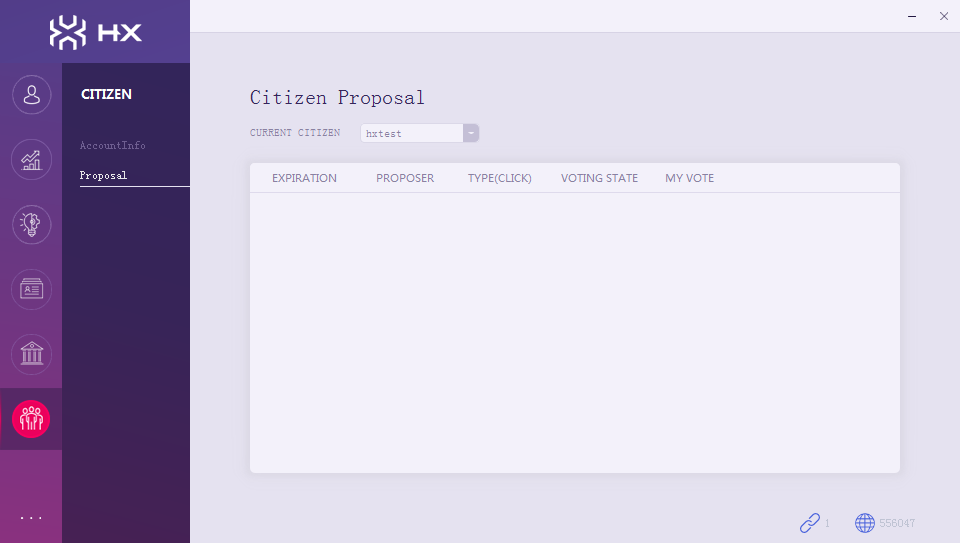
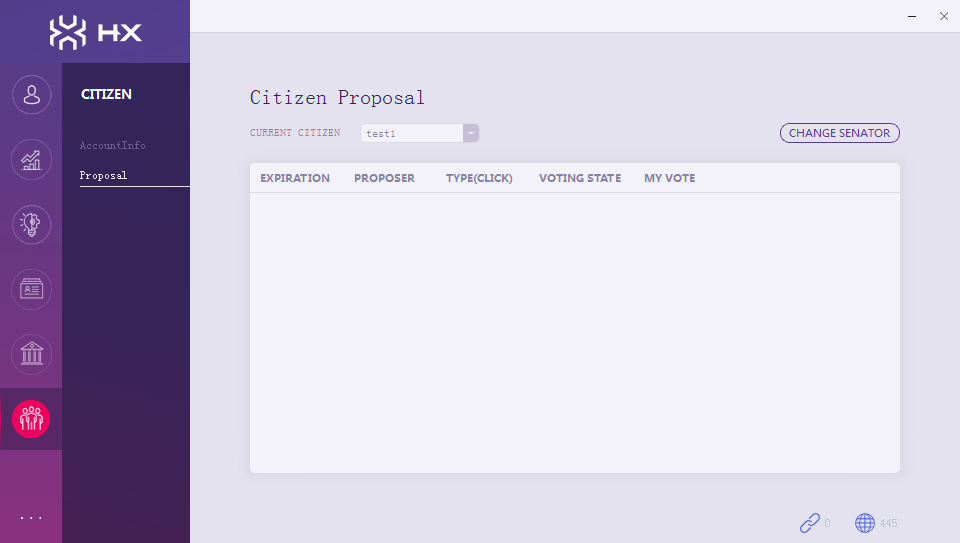
modify senator refer

diff --git a/src/i18n/zh/site/wallets/hxindicator-using-citizen/index.html b/src/i18n/zh/site/wallets/hxindicator-using-citizen/index.html
@@ -1446,14 +1446,36 @@
                 
                 <h2 id="citizen">Citizen账户信息<a class="headerlink" href="#citizen" title="Permanent link">&para;</a></h2>
 <blockquote>
+<p>Citizen Account Info</p>
+</blockquote>
+<p>选择一个citizen账户，显示该citizen的详细信息。</p>
+<p><img alt="Citizen Account Info" src="../../img/wallets/hxindicator/citizen-create.png" /></p>
+<blockquote>
 <p>创建新Citizen</p>
 </blockquote>
-<p>点击按钮&rdquo;创建新CITIZEN&rdquo;,选择一个可用账户,点击 &ldquo;确定&rdquo;,然后输入账户密码.</p>
-<p><img alt="Asset Info" src="../../img/wallets/hxindicator/citizen-create.png" /></p>
-<p><img alt="Asset Info" src="../../img/wallets/hxindicator/citizen-create1.png" /></p>
+<p>点击按钮&rdquo;CREATE CITIZEN&rdquo;,选择一个可用账户,点击 &ldquo;确定&rdquo;,然后输入账户密码(需要消耗1000HX).</p>
+<p><img alt="Citizen Account Info" src="../../img/wallets/hxindicator/citizen-create.png" /></p>
+<p><img alt="Citizen Account Info" src="../../img/wallets/hxindicator/citizen-create1.png" /></p>
+<p><img alt="Citizen Account Info" src="../../img/wallets/hxindicator/citizen-create2.png" /></p>
+<blockquote>
+<p>启动挖矿</p>
+</blockquote>
+<p>点击&rdquo;START MINING&rdquo;按钮，开启挖矿，之后需要重启hx-indicator。</p>
+<p><img alt="Citizen Account Info" src="../../img/wallets/hxindicator/citizen-start-mining.png" /></p>
+<p><img alt="Citizen Account Info" src="../../img/wallets/hxindicator/citizen-start-mining1.png" /></p>
+<blockquote>
+<p>更改矿池手续费</p>
+</blockquote>
+<p>点击&rdquo;CHANGE FEE&rdquo;，选择&rdquo;Account&rdquo;，输入&rdquo;Change to(%)&rdquo;，点击OK。</p>
+<p><img alt="Citizen Account Info" src="../../img/wallets/hxindicator/citizen-change-fee.png" /></p>
+<p><img alt="Citizen Account Info" src="../../img/wallets/hxindicator/citizen-change-fee1.png" /></p>
+<p><img alt="Citizen Account Info" src="../../img/wallets/hxindicator/citizen-change-fee2.png" /></p>
 <h2 id="citizen_1">Citizen提案<a class="headerlink" href="#citizen_1" title="Permanent link">&para;</a></h2>
 <p>选择&rdquo;当前CITIZEN账号&rdquo;,将会现在该账户下所有的提案.</p>
-<p><img alt="Asset Info" src="../../img/wallets/hxindicator/citizen-proposal.png" /></p>
+<p><img alt="Citizen Info" src="../../img/wallets/hxindicator/citizen-proposal.png" /></p>
+<p>更换Senator提案</p>
+<p>点击&rdquo;CHANGE SENATOR&rdquo;，选择&rdquo;Proposer&rdquo;，选择更换名单&rdquo;Nomination List(Three Nomination At Most)&rdquo;，一次最多发起3个senator的替换，至少需要消耗1000HX。</p>
+<p><img alt="Citizen Info" src="../../img/wallets/hxindicator/citizen-proposal1.png" /></p>
 <hr />
                 
                   

diff --git a/site/wallets/hxindicator-using-citizen/index.html b/site/wallets/hxindicator-using-citizen/index.html
@@ -1446,14 +1446,36 @@
                 
                 <h2 id="citizen-account-info">Citizen Account Info<a class="headerlink" href="#citizen-account-info" title="Permanent link">&para;</a></h2>
 <blockquote>
+<p>Citizen Account Info</p>
+</blockquote>
+<p>Select a citizen account, will show detail information of this citizen.</p>
+<p><img alt="Citizen Account Info" src="../../img/wallets/hxindicator/citizen-create.png" /></p>
+<blockquote>
 <p>Create New Citizen</p>
 </blockquote>
-<p>Click botton &ldquo;CREATE CITIZEN&rdquo;,select an account,click &ldquo;Ok&rdquo;,then input password of the account.</p>
-<p><img alt="Asset Info" src="../../img/wallets/hxindicator/citizen-create.png" /></p>
-<p><img alt="Asset Info" src="../../img/wallets/hxindicator/citizen-create1.png" /></p>
+<p>Click botton &ldquo;CREATE CITIZEN&rdquo;,select an account,click &ldquo;Ok&rdquo;,then input password of the account(it spent 1000HX).</p>
+<p><img alt="Citizen Account Info" src="../../img/wallets/hxindicator/citizen-create.png" /></p>
+<p><img alt="Citizen Account Info" src="../../img/wallets/hxindicator/citizen-create1.png" /></p>
+<p><img alt="Citizen Account Info" src="../../img/wallets/hxindicator/citizen-create2.png" /></p>
+<blockquote>
+<p>Start Mining</p>
+</blockquote>
+<p>Click &ldquo;START MINING&rdquo; to start mining, then need to restart hx-indicator.</p>
+<p><img alt="Citizen Account Info" src="../../img/wallets/hxindicator/citizen-start-mining.png" /></p>
+<p><img alt="Citizen Account Info" src="../../img/wallets/hxindicator/citizen-start-mining1.png" /></p>
+<blockquote>
+<p>Change Fee</p>
+</blockquote>
+<p>Click &ldquo;CHANGE FEE&rdquo;, select &ldquo;Account&rdquo;, input&rdquo;Change to(%)&rdquo;, click OK.</p>
+<p><img alt="Citizen Account Info" src="../../img/wallets/hxindicator/citizen-change-fee.png" /></p>
+<p><img alt="Citizen Account Info" src="../../img/wallets/hxindicator/citizen-change-fee1.png" /></p>
+<p><img alt="Citizen Account Info" src="../../img/wallets/hxindicator/citizen-change-fee2.png" /></p>
 <h2 id="citizen-proposal">Citizen Proposal<a class="headerlink" href="#citizen-proposal" title="Permanent link">&para;</a></h2>
 <p>Select &ldquo;CURRENT CITIZEN&rdquo;,you will find all proposals of this account.</p>
-<p><img alt="Asset Info" src="../../img/wallets/hxindicator/citizen-proposal.png" /></p>
+<p><img alt="Citizen Info" src="../../img/wallets/hxindicator/citizen-proposal.png" /></p>
+<p>Change Senator Proposal</p>
+<p>Click &ldquo;CHANGE SENATOR&rdquo;, select &ldquo;Proposer&rdquo;, select &ldquo;Nomination List(Three Nomination At Most)&rdquo;, it spent 1000 hx at least.</p>
+<p><img alt="Citizen Info" src="../../img/wallets/hxindicator/citizen-proposal1.png" /></p>
 <hr />
                 
                   

diff --git a/src/i18n/zh/site/wallets/hxindicator-using-senator/index.html b/src/i18n/zh/site/wallets/hxindicator-using-senator/index.html
@@ -1463,7 +1463,11 @@
 <p>账户信息</p>
 </blockquote>
 <p>选择&rdquo;CURRENT SENATOR&rdquo;，将显示该senator的详细信息。</p>
-<p><img alt="Contacts" src="../../img/wallets/hxindicator/senator-account-info.png" /></p>
+<p><img alt="Senator account info" src="../../img/wallets/hxindicator/senator-account-info.png" /></p>
+<p>点击&rdquo;NEW SENATOR&rdquo;，新建一个senator(需要消耗10000hx)，输入账户密码。</p>
+<p><img alt="Senator new" src="../../img/wallets/hxindicator/senator-new.png" /></p>
+<p><img alt="Senator new" src="../../img/wallets/hxindicator/senator-new1.png" /></p>
+<p><img alt="Senator new" src="../../img/wallets/hxindicator/senator-new2.png" /></p>
 <blockquote>
 <p>我的收益</p>
 </blockquote>

diff --git a/site/wallets/hxindicator-using-senator/index.html b/site/wallets/hxindicator-using-senator/index.html
@@ -1463,7 +1463,11 @@
 <p>Senator Account Info</p>
 </blockquote>
 <p>Select &ldquo;CURRENT SENATOR&rdquo;,will show information about it.</p>
-<p><img alt="Contacts" src="../../img/wallets/hxindicator/senator-account-info.png" /></p>
+<p><img alt="Senator" src="../../img/wallets/hxindicator/senator-account-info.png" /></p>
+<p>Click &ldquo;NEW SENATOR&rdquo; to create a new senator(it spent 10000hx)，input account password.</p>
+<p><img alt="Senator new" src="../../img/wallets/hxindicator/senator-new.png" /></p>
+<p><img alt="Senator new" src="../../img/wallets/hxindicator/senator-new1.png" /></p>
+<p><img alt="Senator new" src="../../img/wallets/hxindicator/senator-new2.png" /></p>
 <blockquote>
 <p>My Income</p>
 </blockquote>

diff --git a/src/i18n/zh/docs/wallets/hxindicator-using-citizen.md b/src/i18n/zh/docs/wallets/hxindicator-using-citizen.md
@@ -1,17 +1,49 @@
 ## Citizen账户信息
 
+> Citizen Account Info
+
+选择一个citizen账户，显示该citizen的详细信息。
+
+![Citizen Account Info](/img/wallets/hxindicator/citizen-create.png)
+
 > 创建新Citizen
 
-点击按钮"创建新CITIZEN",选择一个可用账户,点击 "确定",然后输入账户密码.
+点击按钮"CREATE CITIZEN",选择一个可用账户,点击 "确定",然后输入账户密码(需要消耗1000HX).
 
-![Asset Info](/img/wallets/hxindicator/citizen-create.png)
+![Citizen Account Info](/img/wallets/hxindicator/citizen-create.png)
 
-![Asset Info](/img/wallets/hxindicator/citizen-create1.png)
+![Citizen Account Info](/img/wallets/hxindicator/citizen-create1.png)
+
+![Citizen Account Info](/img/wallets/hxindicator/citizen-create2.png)
+
+> 启动挖矿
+
+点击"START MINING"按钮，开启挖矿，之后需要重启hx-indicator。
+
+![Citizen Account Info](/img/wallets/hxindicator/citizen-start-mining.png)
+
+![Citizen Account Info](/img/wallets/hxindicator/citizen-start-mining1.png)
+
+> 更改矿池手续费
+
+点击"CHANGE FEE"，选择"Account"，输入"Change to(%)"，点击OK。
+
+![Citizen Account Info](/img/wallets/hxindicator/citizen-change-fee.png)
+
+![Citizen Account Info](/img/wallets/hxindicator/citizen-change-fee1.png)
+
+![Citizen Account Info](/img/wallets/hxindicator/citizen-change-fee2.png)
 
 ## Citizen提案
 
 选择"当前CITIZEN账号",将会现在该账户下所有的提案.
 
-![Asset Info](/img/wallets/hxindicator/citizen-proposal.png)
+![Citizen Info](/img/wallets/hxindicator/citizen-proposal.png)
+
+更换Senator提案
+
+点击"CHANGE SENATOR"，选择"Proposer"，选择更换名单"Nomination List(Three Nomination At Most)"，一次最多发起3个senator的替换，至少需要消耗1000HX。
+
+![Citizen Info](/img/wallets/hxindicator/citizen-proposal1.png)
 
 ---

diff --git a/docs/wallets/hxindicator-using-citizen.md b/docs/wallets/hxindicator-using-citizen.md
@@ -1,17 +1,49 @@
 ## Citizen Account Info
 
+> Citizen Account Info
+
+Select a citizen account, will show detail information of this citizen.
+
+![Citizen Account Info](/img/wallets/hxindicator/citizen-create.png)
+
 > Create New Citizen
 
-Click botton "CREATE CITIZEN",select an account,click "Ok",then input password of the account.
+Click botton "CREATE CITIZEN",select an account,click "Ok",then input password of the account(it spent 1000HX).
 
-![Asset Info](/img/wallets/hxindicator/citizen-create.png)
+![Citizen Account Info](/img/wallets/hxindicator/citizen-create.png)
 
-![Asset Info](/img/wallets/hxindicator/citizen-create1.png)
+![Citizen Account Info](/img/wallets/hxindicator/citizen-create1.png)
+
+![Citizen Account Info](/img/wallets/hxindicator/citizen-create2.png)
+
+> Start Mining
+
+Click "START MINING" to start mining, then need to restart hx-indicator.
+
+![Citizen Account Info](/img/wallets/hxindicator/citizen-start-mining.png)
+
+![Citizen Account Info](/img/wallets/hxindicator/citizen-start-mining1.png)
+
+> Change Fee
+
+Click "CHANGE FEE", select "Account", input"Change to(%)", click OK.
+
+![Citizen Account Info](/img/wallets/hxindicator/citizen-change-fee.png)
+
+![Citizen Account Info](/img/wallets/hxindicator/citizen-change-fee1.png)
+
+![Citizen Account Info](/img/wallets/hxindicator/citizen-change-fee2.png)
 
 ## Citizen Proposal
 
 Select "CURRENT CITIZEN",you will find all proposals of this account.
 
-![Asset Info](/img/wallets/hxindicator/citizen-proposal.png)
+![Citizen Info](/img/wallets/hxindicator/citizen-proposal.png)
+
+Change Senator Proposal
+
+Click "CHANGE SENATOR", select "Proposer", select "Nomination List(Three Nomination At Most)", it spent 1000 hx at least.
+
+![Citizen Info](/img/wallets/hxindicator/citizen-proposal1.png)
 
 ---

diff --git a/src/i18n/zh/docs/wallets/hxindicator-using-senator.md b/src/i18n/zh/docs/wallets/hxindicator-using-senator.md
@@ -4,7 +4,15 @@
 
 选择"CURRENT SENATOR"，将显示该senator的详细信息。
 
-![Contacts](/img/wallets/hxindicator/senator-account-info.png)
+![Senator account info](/img/wallets/hxindicator/senator-account-info.png)
+
+点击"NEW SENATOR"，新建一个senator(需要消耗10000hx)，输入账户密码。
+
+![Senator new](/img/wallets/hxindicator/senator-new.png)
+
+![Senator new](/img/wallets/hxindicator/senator-new1.png)
+
+![Senator new](/img/wallets/hxindicator/senator-new2.png)
 
 > 我的收益
 

diff --git a/docs/wallets/hxindicator-using-senator.md b/docs/wallets/hxindicator-using-senator.md
@@ -4,7 +4,15 @@
 
 Select "CURRENT SENATOR",will show information about it.
 
-![Contacts](/img/wallets/hxindicator/senator-account-info.png)
+![Senator](/img/wallets/hxindicator/senator-account-info.png)
+
+Click "NEW SENATOR" to create a new senator(it spent 10000hx)，input account password.
+
+![Senator new](/img/wallets/hxindicator/senator-new.png)
+
+![Senator new](/img/wallets/hxindicator/senator-new1.png)
+
+![Senator new](/img/wallets/hxindicator/senator-new2.png)
 
 > My Income
 
